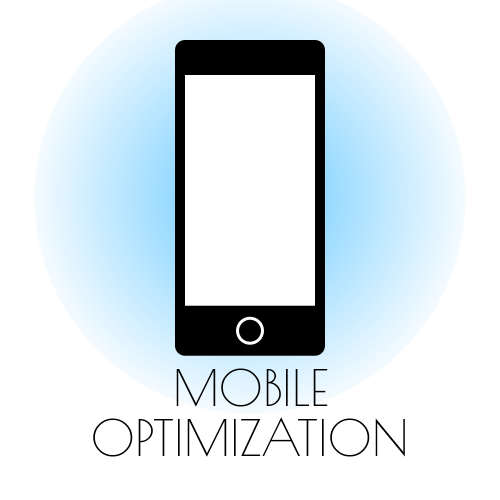
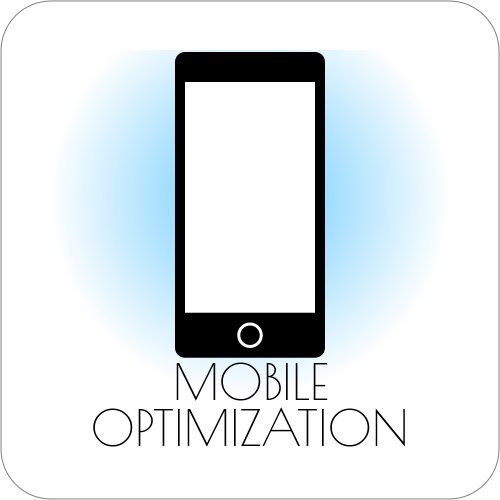
replaced cols with imgs

diff --git a/make_mobile_img.html b/make_mobile_img.html
@@ -1,73 +1,87 @@
-<head>
-  <!--<link href='http://fonts.googleapis.com/css?family=Coda:800' rel='stylesheet' type='text/css'>
-   -->
-</head>
 <div style="text-align:center;">
   <canvas id="make-img" height="500" width="500"></canvas>
   <script>
     var cvs = document.getElementById('make-img');
     var ctx = cvs.getContext('2d');
+
+      ctx.strokeStyle = 'gray';
+      ctx.beginPath();
+        ctx.moveTo(1, 51);
+        ctx.lineTo(1, 449);
+        ctx.arc(51, 449, 50, Math.PI, Math.PI / 2, true);
+        ctx.lineTo(449, 499);
+        ctx.arc(449, 449, 50, Math.PI / 2, 0, true);
+        ctx.lineTo(499, 51);
+        ctx.arc(449, 51, 50, 0, 1.5 * Math.PI, true);
+        ctx.lineTo(51, 1);
+        ctx.arc(51, 51, 50, 1.5 * Math.PI, Math.PI, true);
+      ctx.stroke();
+
     var phoneScreenWidth = 130;
     var phoneScreenHeight = phoneScreenWidth / 0.5634;
     var cornerRad = 10;
-    var topLength = 35;
-    var bottomLength = 50;
+    var topLength = 30;
+    var bottomLength = 45;
+    var screenLeft = (400 - phoneScreenWidth) / 2;
+    var screenTop = 32;
 
     ctx.save();
-      var burstRad = phoneScreenHeight - 50;
-      var eachRot = Math.PI / 12;
-      var pointx = Math.sin(eachRot / 2) * burstRad;
-      var pointy = Math.cos(eachRot / 2) * burstRad;
-      ctx.translate(185 + phoneScreenWidth / 2, 75 + phoneScreenHeight / 2 + (bottomLength - topLength) / 2);
-      var gradient = ctx.createRadialGradient(0, 0, phoneScreenHeight, 0, 0, 0);
-      gradient.addColorStop(1, 'rgb(100,200,255)');
-      gradient.addColorStop(0, "white");
-      ctx.fillStyle = gradient;
-      ctx.beginPath(); ctx.arc(0, 0, phoneScreenHeight - 15, 0, 2 * Math.PI);
+      ctx.translate(50,50);
+
+      ctx.beginPath();
+      ctx.rect(0,0,400,400);
+      ctx.clip();
+
+      ctx.save();
+        ctx.translate(screenLeft + phoneScreenWidth / 2, screenTop + phoneScreenHeight / 2);
+        var gradient = ctx.createRadialGradient(0, 0, 200, 0, 0, 0);
+        gradient.addColorStop(1, 'rgb(100,200,255)');
+        gradient.addColorStop(0, "white");
+        ctx.fillStyle = gradient;
+        ctx.beginPath(); ctx.arc(0, 0, 200, 0, 2 * Math.PI);
+        ctx.fill();
+      ctx.restore();
+
+      ctx.beginPath();
+        ctx.moveTo(screenLeft - cornerRad, screenTop - topLength + cornerRad);
+        ctx.lineTo(screenLeft - cornerRad, screenTop + phoneScreenHeight + bottomLength - cornerRad);
+        ctx.arc(screenLeft, screenTop + phoneScreenHeight + bottomLength - cornerRad, cornerRad, Math.PI, Math.PI / 2, true);
+        ctx.lineTo(screenLeft + phoneScreenWidth, screenTop + phoneScreenHeight + bottomLength);
+        ctx.arc(screenLeft + phoneScreenWidth, screenTop + phoneScreenHeight + bottomLength - cornerRad, cornerRad, Math.PI / 2, 0, true);
+        ctx.lineTo(screenLeft + phoneScreenWidth + cornerRad, screenTop - topLength + cornerRad);
+        ctx.arc(screenLeft + phoneScreenWidth, screenTop - topLength + cornerRad, cornerRad, 0, 1.5 * Math.PI, true);
+        ctx.lineTo(screenLeft, screenTop - topLength);
+        ctx.arc(screenLeft, screenTop - topLength + cornerRad, cornerRad, 1.5 * Math.PI, Math.PI, true);
+        ctx.closePath();
       ctx.fill();
-    ctx.restore();
 
-    ctx.beginPath();
-      ctx.moveTo(185 - cornerRad, 75 - topLength + cornerRad);
-      ctx.lineTo(185 - cornerRad, 75 + phoneScreenHeight + bottomLength - cornerRad);
-      ctx.arc(185, 75 + phoneScreenHeight + bottomLength - cornerRad, cornerRad, Math.PI, Math.PI / 2, true);
-      ctx.lineTo(185 + phoneScreenWidth, 75 + phoneScreenHeight + bottomLength);
-      ctx.arc(185 + phoneScreenWidth, 75 + phoneScreenHeight + bottomLength - cornerRad, cornerRad, Math.PI / 2, 0, true);
-      ctx.lineTo(185 + phoneScreenWidth + cornerRad, 75 - topLength + cornerRad);
-      ctx.arc(185 + phoneScreenWidth, 75 - topLength + cornerRad, cornerRad, 0, 1.5 * Math.PI, true);
-      ctx.lineTo(185, 75 - topLength);
-      ctx.arc(185, 75 - topLength + cornerRad, cornerRad, 1.5 * Math.PI, Math.PI, true);
-      ctx.closePath();
-    ctx.fill();
+      ctx.fillStyle = 'white';
+      ctx.fillRect(screenLeft, screenTop, phoneScreenWidth, phoneScreenHeight);
+      var circleCenter = [screenLeft + phoneScreenWidth / 2, screenTop + phoneScreenHeight + bottomLength / 2];
+      ctx.strokeStyle = 'white';
+      ctx.lineWidth = 3;
 
-    ctx.fillStyle = 'white';
-    ctx.fillRect(185, 75, phoneScreenWidth, phoneScreenHeight);
-    var circleCenter = [185 + phoneScreenWidth / 2, 75 + phoneScreenHeight + bottomLength / 2];
-    ctx.strokeStyle = 'white';
-    ctx.lineWidth = 3;
+      ctx.beginPath();
+        ctx.arc(circleCenter[0], circleCenter[1], bottomLength / 4, 0, 2 * Math.PI);
+      ctx.stroke();
 
-    ctx.beginPath();
-      ctx.arc(circleCenter[0], circleCenter[1], bottomLength / 4, 0, 2 * Math.PI);
-    ctx.stroke();
-
-    var link = document.createElement('link');
-    link.rel = 'stylesheet';
-    link.type = 'text/css';
-    link.href = 'http://fonts.googleapis.com/css?family=Poiret+One';
-    document.getElementsByTagName('head')[0].appendChild(link);
-    
-    // Trick from http://stackoverflow.com/questions/2635814/
-    var image = new Image;
-    image.onerror = function() {
-      ctx.font = "50pt bold";
-      ctx.textAlign = "center";
-      ctx.strokeStyle = 'black';
-      ctx.fillStyle = "black";
-      ctx.font = '50px "Poiret One"';
-      ctx.fillText("MOBILE", 250, 75 + phoneScreenHeight + bottomLength * 2);
-      ctx.fillText("OPTIMIZATION", 250, 75 + phoneScreenHeight + bottomLength * 3);
-    };
-    image.src = link.href;
-
+      var link = document.createElement('link');
+      link.rel = 'stylesheet';
+      link.type = 'text/css';
+      link.href = 'http://fonts.googleapis.com/css?family=Poiret+One';
+      document.getElementsByTagName('head')[0].appendChild(link);
+      
+      // Trick from http://stackoverflow.com/questions/2635814/
+      var image = new Image;
+      image.onerror = function() {
+        ctx.font = "50pt bold";
+        ctx.textAlign = "center";
+        ctx.strokeStyle = 'black';
+        ctx.fillStyle = "black";
+        ctx.font = '50px "Poiret One"';
+        ctx.fillText("MOBILE", 200, screenTop + phoneScreenHeight + bottomLength + 42);
+        ctx.fillText("OPTIMIZATION", 200, screenTop + phoneScreenHeight + bottomLength + 88);
+      };
+      image.src = link.href;
   </script>
 </div>

diff --git a/index.html b/index.html
@@ -15,22 +15,10 @@
       <link rel="stylesheet" href="css/bootstrap.min.css">
     <style>
       body { margin-top: 70px; }
-      .img-container {
-        height: 100%;
-        padding: 20px;
-        border: 1px solid rgb(100,100,100);
-        -webkit-border-radius: 20px;
-           -moz-border-radius: 20px;
-                border-radius: 20px;
-      }
-      .img-box { padding: 15px; }
-      .img-container > img {
-        max-width: 100%;
-        max-height: 100%;
-      }
-      .img-container > svg {
-        height: 100%;
-        width: 100%;
+      .img-col { text-align: center; }
+      .img-col > img {
+        width: 25%;
+        margin-left: 30px;
       }
     </style>
   </head>
@@ -82,48 +70,9 @@
     </nav>
     <div class="container">
       <div class="row">
-        <div class="col-xs-6 col-sm-3 img-box">
-          <div class="img-container">
-            <img src="img/HTML5_Logo.png" alt="html 5 logo"></img>
-          </div>
-        </div>
-        <div class="col-xs-6 col-sm-3 img-box">
-          <div class="img-container">
-            <img src="img/mobile_optimization.png" alt="mobile optimization"></img>
-          </div>
-        </div>
-        <div class="col-xs-6 col-sm-3 img-box">
-          <div class="img-container">
-            <svg id="customer-outreach">
-              <rect x="10%" y="10%" width="80%" height="40%" fill="transparent" stroke="black" stroke-width="5"/>
-              <line x1="10%" y1="10%" x2="50%" y2="40%" stroke="black" stroke-width="5"/>
-              <line x1="50%" y1="40%" x2="90%" y2="10%" stroke="black" stroke-width="5"/>
-              <text x="50%" y="80%" text-anchor="middle" style="font-weight:bold;font-size:20px;">CUSTOMER</text>
-              <text x="50%" y="90%" text-anchor="middle" style="font-weight:bold;font-size:20px;">OUTREACH</text>
-              <script>
-                var svgNS = "http://www.w3.org/2000/svg";
-                var line = document.createElementNS(svgNS, 'line');
-                var width = $('#customer-outreach').width();
-                var height = $('#customer-outreach').height();
-                var flapAngle = Math.atan(0.3 * width / (0.4 * width));
-                var flapYatX = 0.1 * width + Math.tan(flapAngle) * 0.3 * width;
-                flapYatX *= 1 / width * 100;
-                line.setAttribute('x1', "10%");
-                line.setAttribute('y1', "50%");
-                line.setAttribute('x2', "40%");
-                line.setAttribute('y2', flapYatX + "%");
-                line.setAttribute('stroke', 'black');
-                $('#customer-outreach').append(line);
-                var line2 = document.createElementNS(svgNS, 'line');
-                line2.setAttribute('x1', '60%');
-                line2.setAttribute('y1', flapYatX + "%");
-                line2.setAttribute('x2', "90%");
-                line2.setAttribute('y2', "50%");
-                line2.setAttribute('stroke', 'black');
-                $('#customer-outreach').append(line2);
-              </script>
-            </svg>
-          </div>
+        <div class="col-xs-12 img-col">
+          <img src="img/mobile_optimization.png" alt="mobile optimization"></img>
+          <img src="img/mobile_optimization.png" alt="mobile optimization"></img>
         </div>
       </div>
     </div>
